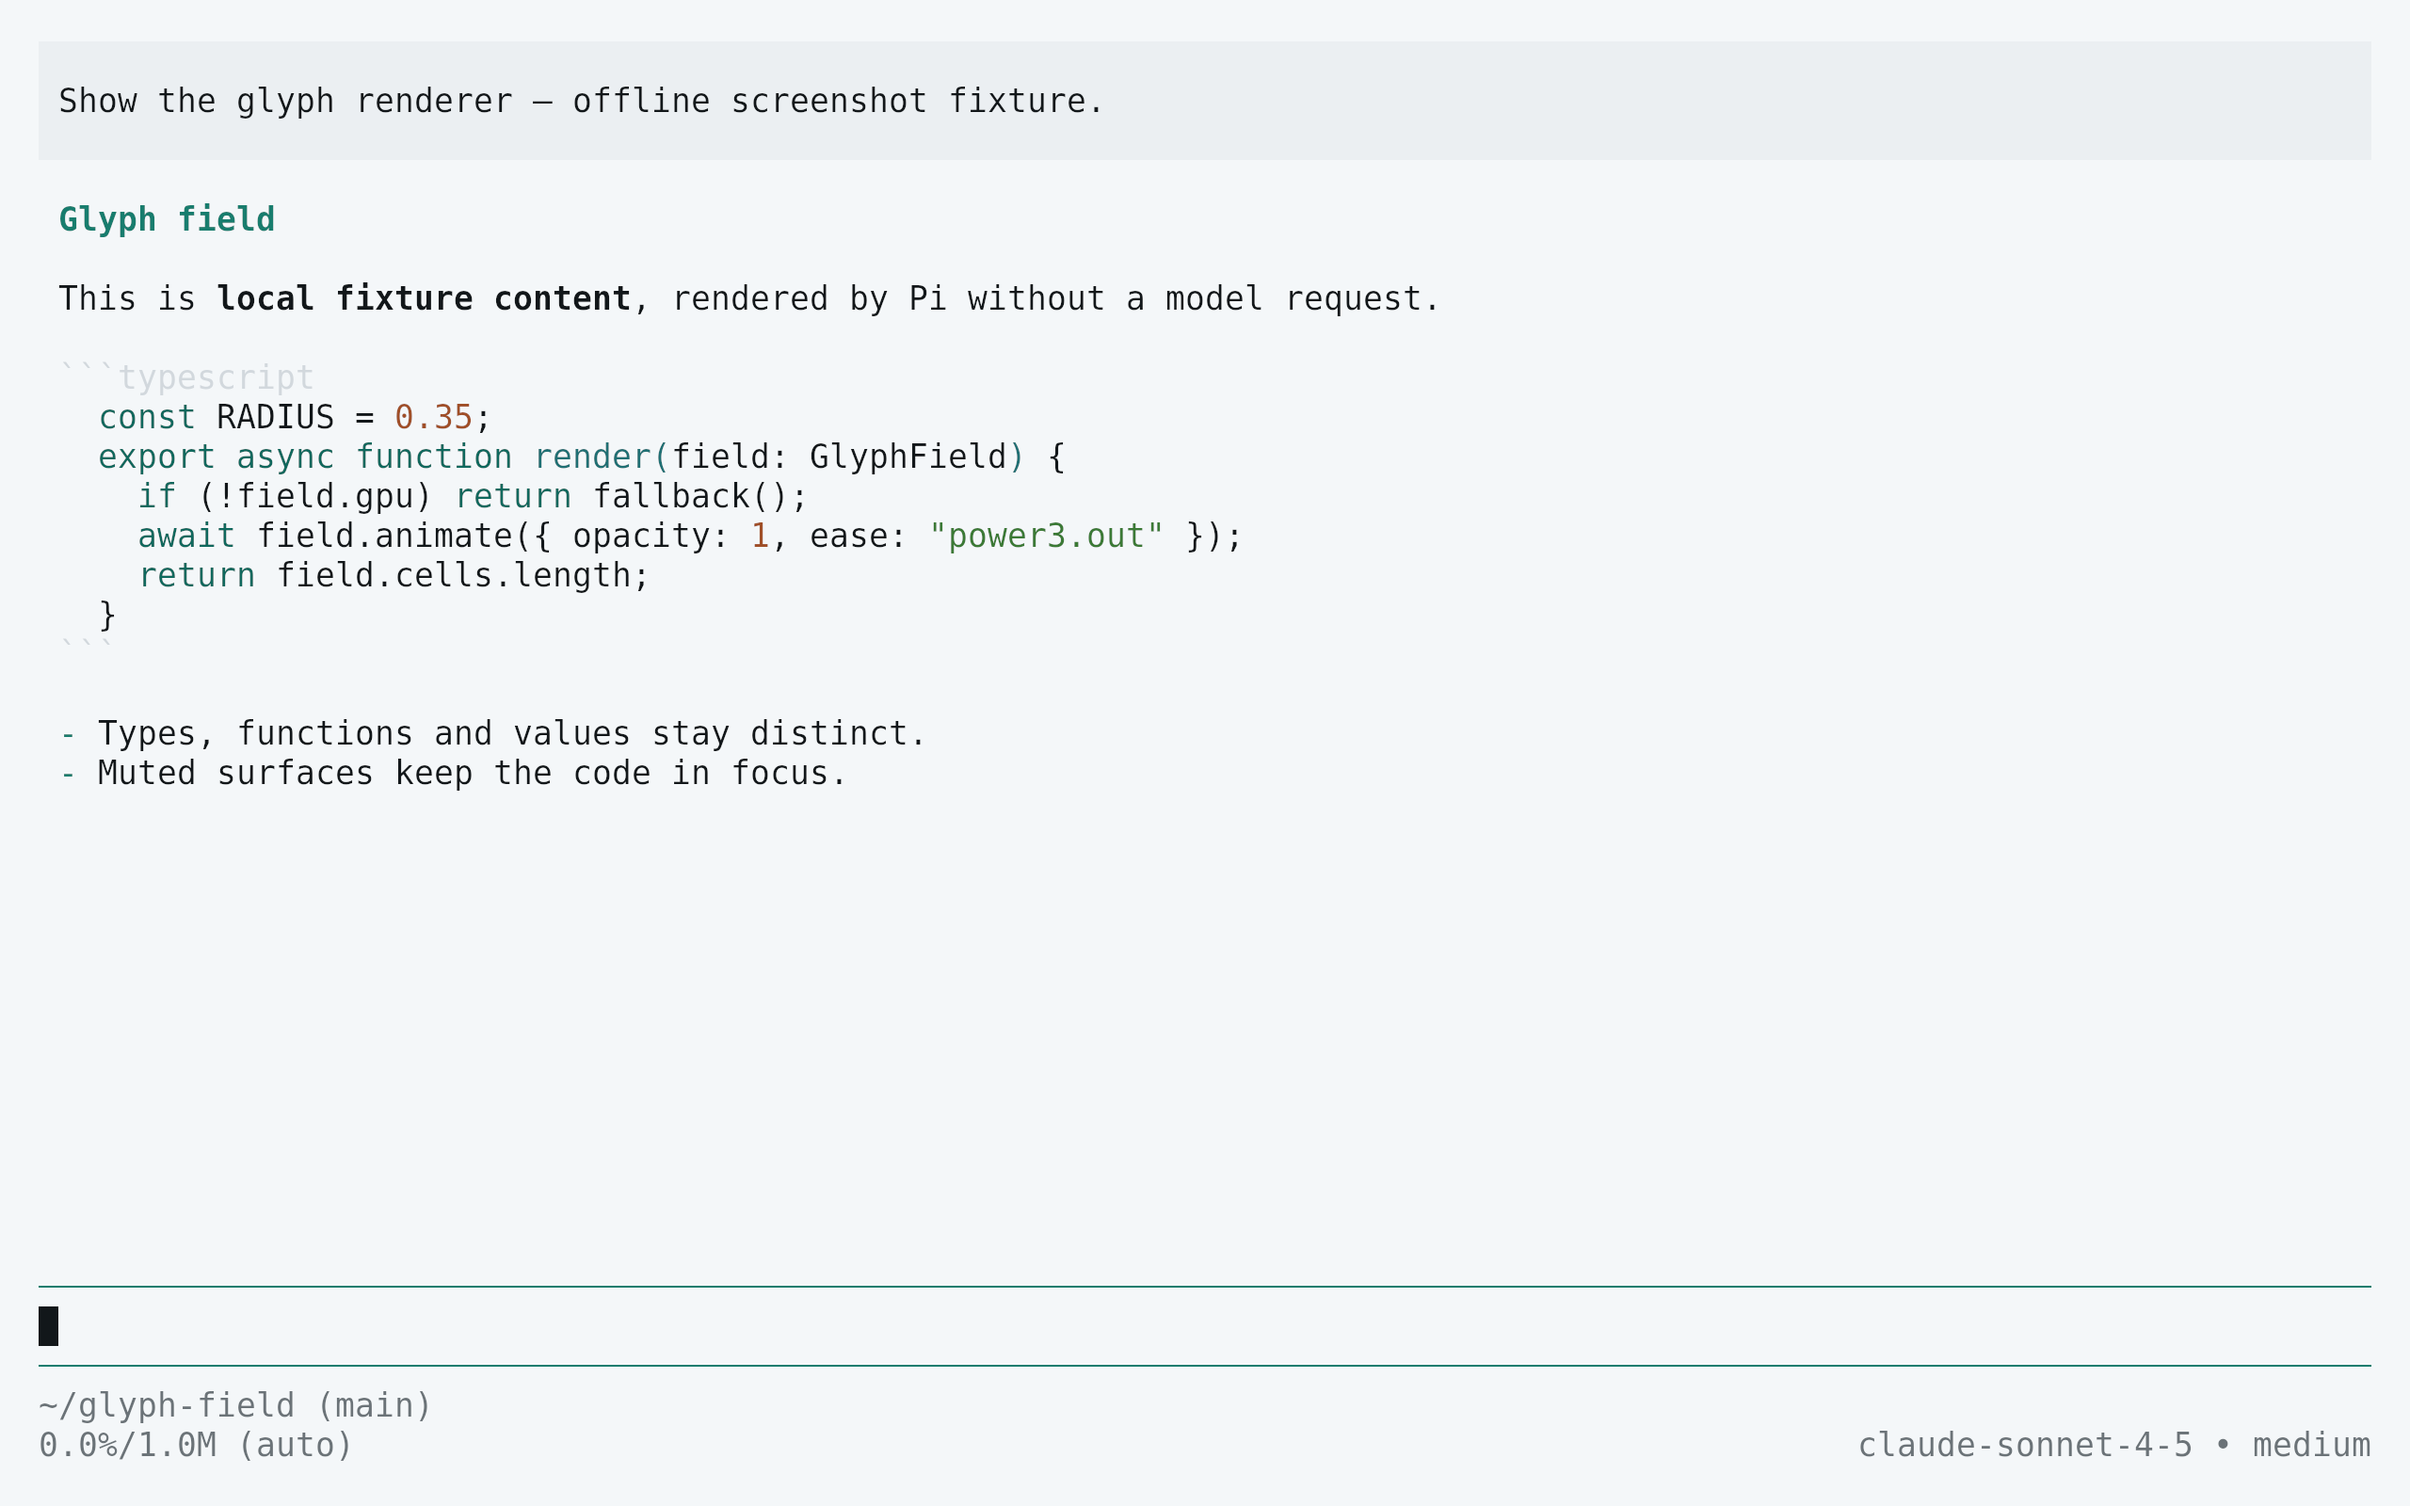
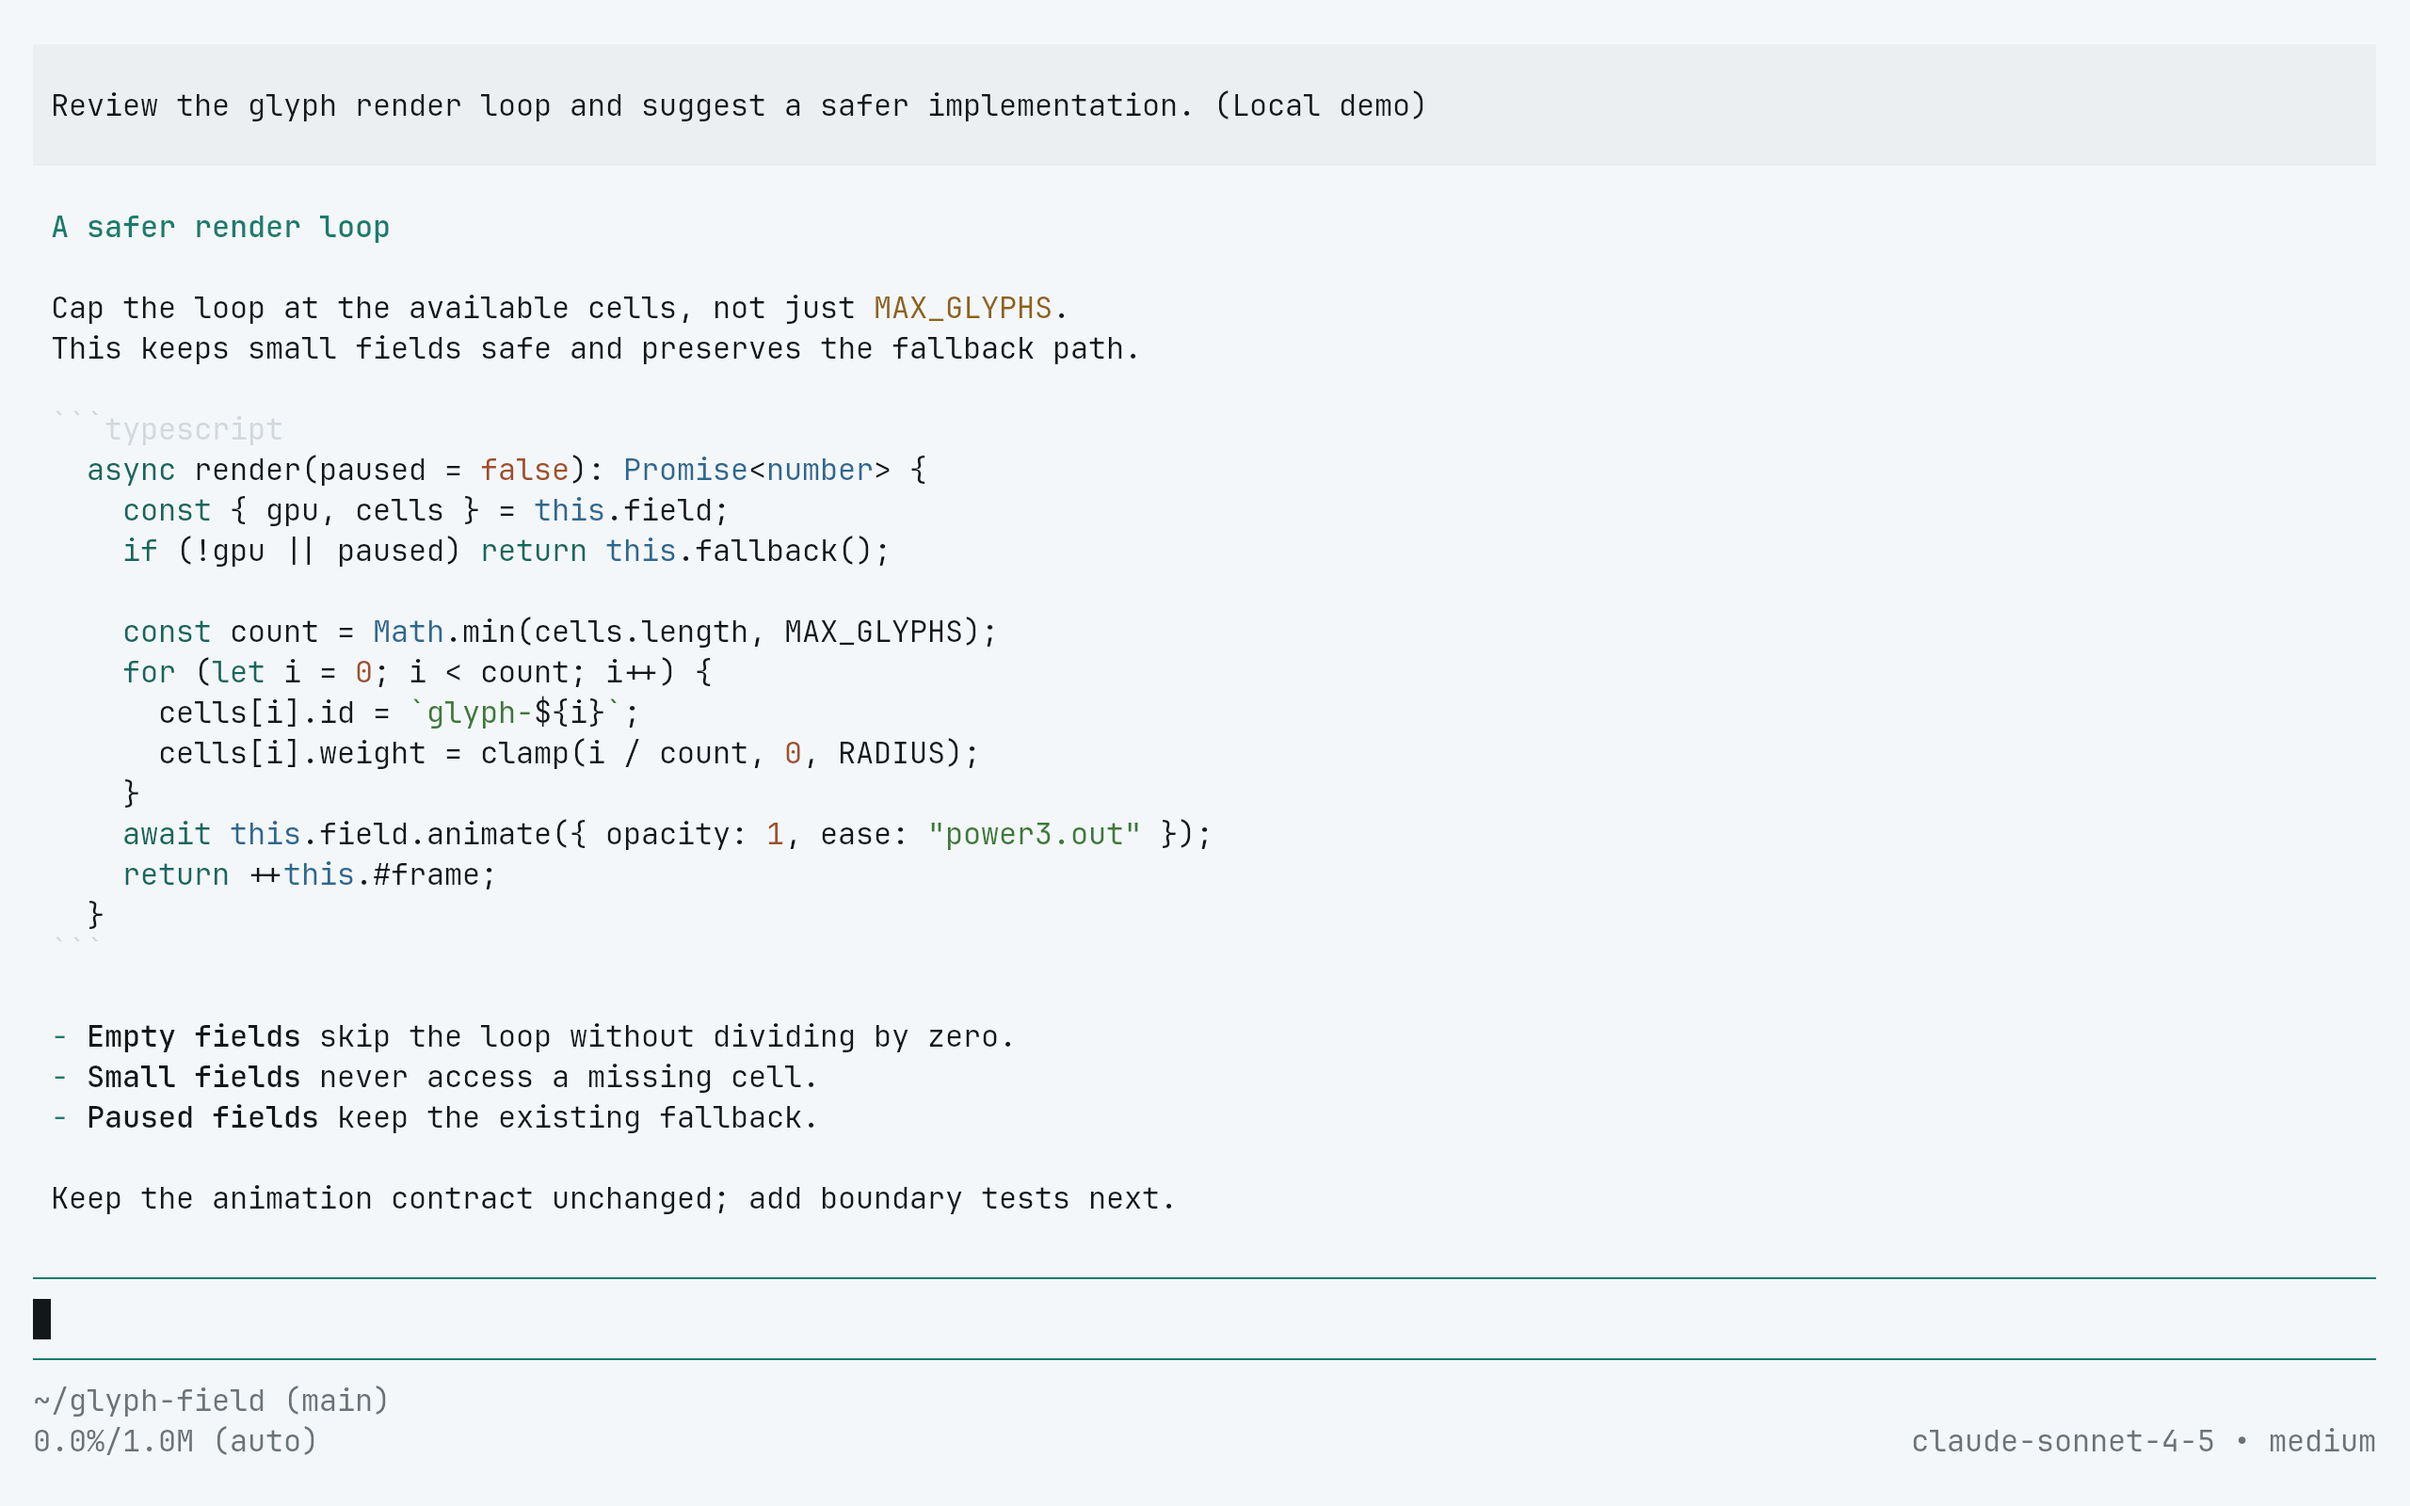
feat: refresh native review previews and verify syntax roles

diff --git a/capture/app.py b/capture/app.py
@@ -10,8 +10,8 @@ def prepare(c):
     timestamp = '2026-01-01T12:00:00.000Z'
     header = {'type': 'session', 'version': 3, 'id': 'living-code-capture', 'timestamp': timestamp, 'cwd': str(c.work)}
     user = {'type': 'message', 'id': '11111111', 'parentId': None, 'timestamp': timestamp,
-            'message': {'role': 'user', 'content': 'Show the glyph renderer — offline screenshot fixture.', 'timestamp': 1767268800000}}
-    text = '''## Glyph field\n\nThis is **local fixture content**, rendered by Pi without a model request.\n\n```typescript\nconst RADIUS = 0.35;\nexport async function render(field: GlyphField) {\n  if (!field.gpu) return fallback();\n  await field.animate({ opacity: 1, ease: "power3.out" });\n  return field.cells.length;\n}\n```\n\n- Types, functions and values stay distinct.\n- Muted surfaces keep the code in focus.\n'''
+            'message': {'role': 'user', 'content': 'Review the glyph render loop and suggest a safer implementation. (Local demo)', 'timestamp': 1767268800000}}
+    text = (c.root / 'capture/review.md').read_text()
     assistant = {'type': 'message', 'id': '22222222', 'parentId': '11111111', 'timestamp': timestamp,
         'message': {'role': 'assistant', 'content': [{'type': 'text', 'text': text}], 'api': 'anthropic-messages',
             'provider': 'anthropic', 'model': 'claude-sonnet-4-5', 'stopReason': 'stop', 'timestamp': 1767268800000,
@@ -23,4 +23,4 @@ def prepare(c):
 
 
 def drive(c):
-    c.wait_text(r'local fixture content|Types, functions')
+    c.wait_text(r'add boundary tests next')

diff --git a/scripts/capture.py b/scripts/capture.py
@@ -185,7 +185,7 @@ export class FieldRenderer {
         role = lambda name: colors[self.flavor['roles'][name]]['hex']
         options = {'linux_display_server': 'x11', 'hide_window_decorations': 'yes', 'remember_window_size': 'no',
                    'initial_window_width': str(WIDTH), 'initial_window_height': str(HEIGHT),
-                   'font_family': 'DejaVu Sans Mono', 'font_size': '26', 'window_padding_width': '24',
+                   'font_family': 'JetBrains Mono', 'font_size': '24', 'window_padding_width': '24',
                    'cursor_blink_interval': '0', 'enable_audio_bell': 'no', 'allow_remote_control': 'yes',
                    'background': role('bg'), 'foreground': role('fg'), 'cursor': role('cursor'),
                    'selection_background': role('selection'), 'selection_foreground': role('fg')}

diff --git a/README.md b/README.md
@@ -105,13 +105,13 @@ pi --use-theme living-code-signal
 
 ## Configuration
 
-Themes include every required color and the optional search, scrollbar and maximum-thinking colors. Export page/panel backgrounds are explicit. In `~/.pi/agent/settings.json`, `"theme": "living-code-paper/living-code-night"` follows the terminal appearance, with the light theme first. Package resources declare only themes: no tools, extensions or prompts are installed.
+Themes include every required color and the optional search, scrollbar and maximum-thinking colors. Export page/panel backgrounds are explicit. All nine exposed `syntax*` roles use the corresponding [Living Code Neovim](https://github.com/living-code-theme/nvim/blob/main/lua/living-code/highlights.lua) roles in every flavor; a pinned reference test protects that mapping. Token recognition still belongs to Pi’s lexer: for example, Pi 1.1.0 combines builtins with types, so those cannot receive separate colors through its nine-token API. In `~/.pi/agent/settings.json`, `"theme": "living-code-paper/living-code-night"` follows the terminal appearance, with the light theme first. Package resources declare only themes: no tools, extensions or prompts are installed.
 
 ## Compatibility
 
 Verified against the Pi 1.1.0 theme schema and native JSON validator. Requires a Pi release supporting these theme roles. User themes hot-reload when the theme name matches the JSON filename; package themes can be refreshed with `/reload`. Project-scoped resources require project trust. Truecolor is recommended. No provider login or model call is needed to use or validate the theme.
 
-Previews are captured programmatically from the actual application in an isolated profile. See [`capture/app.py`](capture/app.py) for the app-owned recipe and [`images/capture.json`](images/capture.json) for runtime, palette and image provenance. No mock interface is drawn.
+Previews are captured programmatically from the actual application in an isolated profile. See [`capture/app.py`](capture/app.py) for the app-owned recipe and [`images/capture.json`](images/capture.json) for runtime, palette and image provenance. No mock interface is drawn. The conversation is a labeled, repository-owned local demo, not a private session or a live model response. Recapturing needs no account, subscription or paid API call.
 
 ## Contributing
 

diff --git a/capture/review.md b/capture/review.md
@@ -1,0 +1,25 @@
+## A safer render loop
+
+Cap the loop at the available cells, not just `MAX_GLYPHS`.
+This keeps small fields safe and preserves the fallback path.
+
+```typescript
+async render(paused = false): Promise<number> {
+  const { gpu, cells } = this.field;
+  if (!gpu || paused) return this.fallback();
+
+  const count = Math.min(cells.length, MAX_GLYPHS);
+  for (let i = 0; i < count; i++) {
+    cells[i].id = `glyph-${i}`;
+    cells[i].weight = clamp(i / count, 0, RADIUS);
+  }
+  await this.field.animate({ opacity: 1, ease: "power3.out" });
+  return ++this.#frame;
+}
+```
+
+- **Empty fields** skip the loop without dividing by zero.
+- **Small fields** never access a missing cell.
+- **Paused fields** keep the existing fallback.
+
+Keep the animation contract unchanged; add boundary tests next.
